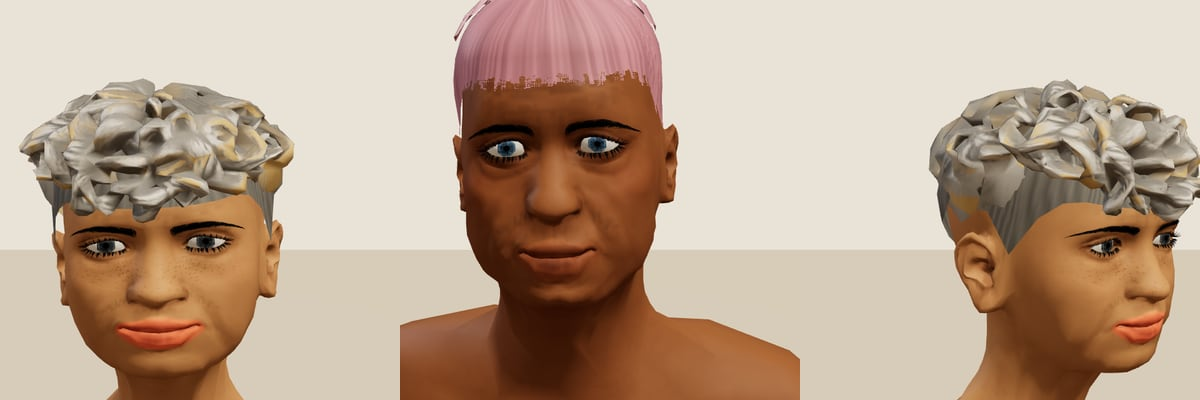
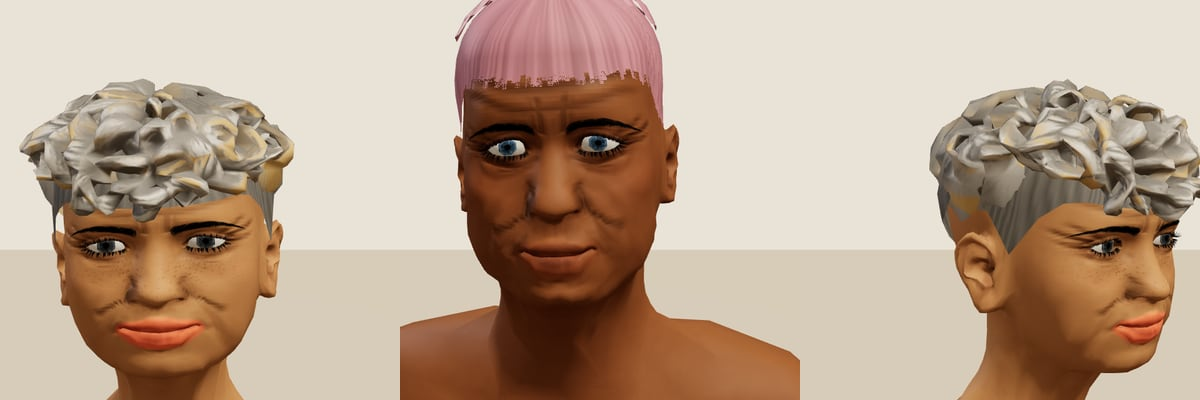
Make elder wrinkles readable: wider soft lines, age shading, bump
Claude-Session: https://claude.ai/code/session_01Sk68ke1565YUofyCmAJJtB

diff --git a/src/characters/materials.ts b/src/characters/materials.ts
@@ -443,6 +443,8 @@ export interface MpfbSkinUniforms extends SkinUniforms {
   uSkinMean: THREE.IUniform<THREE.Vector3>;
   /** Age-line intensity of an elder, baked into the head's own UV layout (null for the younger stages). */
   uWrinkleMap: THREE.IUniform<THREE.Texture | null>;
+  /** Elder wrinkle look: line albedo darkening, broad age-shading darkening, normal (bump) strength. */
+  uWrinkleFx: THREE.IUniform<THREE.Vector3>;
 }
 
 const PSKIN_FRAG_HEAD = /* glsl */ `
@@ -460,6 +462,14 @@ uniform vec4 uSkinFx; // freckles, blush, stubble, -
 uniform float uSelect;
 #ifdef HAS_WRINKLES
 uniform sampler2D uWrinkleMap;
+uniform vec3 uWrinkleFx; // line albedo, age-shading albedo, normal strength
+// Slope of the red (line) channel over one screen pixel, for the bump normal below.
+vec2 hsWrinkleGrad() {
+  vec2 dx = dFdx(vMsUv);
+  vec2 dy = dFdy(vMsUv);
+  float h = texture2D(uWrinkleMap, vMsUv).r;
+  return vec2(texture2D(uWrinkleMap, vMsUv + dx).r - h, texture2D(uWrinkleMap, vMsUv + dy).r - h);
+}
 #endif
 float hsHash(vec2 p) { return fract(sin(dot(p, vec2(127.1, 311.7))) * 43758.5453); }
 float hsLuma(vec3 c) { return dot(c, vec3(0.2126, 0.7152, 0.0722)); }
@@ -476,8 +486,10 @@ if (vCover > 0.5) discard;                            // under an opaque garment
   vec3 col = tone * (l * ${f(1 - 0.35)} + (tex / uSkinMean) * ${f(0.35)});
 #ifdef HAS_WRINKLES
   if (vInfo.x > 4.5 && vInfo.x < 5.5) {
-    // fine age lines baked from the head's own UV layout: a little darkening only, so every skin tone keeps its colour
-    col *= 1.0 - 0.3 * texture2D(uWrinkleMap, vMsUv).r;
+    // age lines and hollows baked from the head's own UV layout: a little darkening only, so every skin tone keeps its colour.
+    // Red is the line pattern (also used for the bump normal), green the broad under-eye and nasolabial shading.
+    vec2 wm = texture2D(uWrinkleMap, vMsUv).rg;
+    col *= 1.0 - uWrinkleFx.x * wm.r - uWrinkleFx.y * wm.g;
   }
 #endif
   // lips: the skin's _LIPS weight shifts the colour towards the lip colour's hue, keeping luminance (every tone works)
@@ -514,6 +526,27 @@ if (vCover > 0.5) discard;                            // under an opaque garment
 diffuseColor.rgb = mix(diffuseColor.rgb, diffuseColor.rgb * 1.08 + vec3(0.04, 0.03, 0.0), uSelect);
 `;
 
+/**
+ * Bend the head normal by the wrinkle map so the creases catch the light. The response is the standard screen-space bump
+ * gradient (Mikkelsen): the map is a groove (negative height), and only the head part takes part.
+ */
+const PSKIN_FRAG_NORMAL = /* glsl */ `
+#include <normal_fragment_begin>
+#ifdef HAS_WRINKLES
+// derivatives outside the branch: some drivers give undefined results in non-uniform control flow
+vec2 hsSlope = -hsWrinkleGrad() * uWrinkleFx.z; // the lines are grooves, so the height is the negative of the map
+vec3 hsSigmaX = normalize(dFdx(-vViewPosition));
+vec3 hsSigmaY = normalize(dFdy(-vViewPosition));
+if (vInfo.x > 4.5 && vInfo.x < 5.5) {
+  vec3 r1 = cross(hsSigmaY, normal);
+  vec3 r2 = cross(normal, hsSigmaX);
+  float det = dot(hsSigmaX, r1) * faceDirection;
+  vec3 grad = sign(det) * (hsSlope.x * r1 + hsSlope.y * r2);
+  normal = normalize(abs(det) * normal - grad);
+}
+#endif
+`;
+
 const MPSKIN_VERT_HEAD = `${MSKIN_VERT_HEAD}attribute float aLips;\nvarying float vLips;\n`;
 const MPSKIN_VERT_COVER = MSKIN_VERT_COVER.replace('vInfo = aInfo;', 'vInfo = aInfo;\nvLips = aLips;');
 
@@ -530,48 +563,84 @@ const sstep = (a: number, b: number, x: number) => {
   return t * t * (3 - 2 * t);
 };
 
-/** Strength (0..1) of a line from (ax, ay) to (bx, by) across `halfW`, softened over `soft`. */
-function lineMask(x: number, y: number, ax: number, ay: number, bx: number, by: number, halfW: number, soft = 0.0022): number {
+/** Soft Gaussian line from (ax, ay) to (bx, by): 1 on the line, fading over about `sigma` metres. */
+function lineMask(x: number, y: number, ax: number, ay: number, bx: number, by: number, sigma: number): number {
   const dx = bx - ax, dy = by - ay;
   const l2 = dx * dx + dy * dy;
   const t = l2 > 0 ? Math.min(1, Math.max(0, ((x - ax) * dx + (y - ay) * dy) / l2)) : 0;
   const d = Math.hypot(x - (ax + t * dx), y - (ay + t * dy));
-  return 1 - sstep(halfW - soft, halfW + soft, d);
+  return Math.exp(-(d * d) / (2 * sigma * sigma));
+}
+
+/** A soft Gaussian patch around (cx, cy) with radii (sx, sy); used for the broad age shading. */
+function softPatch(x: number, y: number, cx: number, cy: number, sx: number, sy: number): number {
+  const dx = (x - cx) / sx, dy = (y - cy) / sy;
+  return Math.exp(-0.5 * (dx * dx + dy * dy));
+}
+
+/** The head's front-facing weight, so nothing shows through the back of the skull. */
+function frontWeight(z: number): number {
+  return sstep(0.012, 0.045, z);
 }
 
 /**
  * Age-line pattern in the head's local face coordinates (x = lateral, y = up from the chin, z = forward; FACE_LAYOUT).
- * Forehead lines, glabella, crow's feet, under-eye lines and nasolabial folds. Mild on purpose: readable at close range,
- * almost invisible from across the room. Baked into the head UVs, so it follows every slider, face morph and skin tone.
+ * Wide, soft forehead lines, glabella, crow's feet fanning from the outer eye corners, lines under the eyes and deep
+ * nasolabial folds. The lines are a few millimetres wide on purpose: at close range they read clearly, and in the distance
+ * the mipmaps turn them into a soft age texture instead of shimmer. Baked into the head UVs, so it follows every slider,
+ * face morph and skin tone. Red channel of the wrinkle map.
  */
 export function wrinkleIntensity(p: readonly number[]): number {
   const x = p[0] as number, y = p[1] as number, z = p[2] as number;
-  const front = sstep(0.012, 0.045, z);
+  const front = frontWeight(z);
   if (front <= 0) return 0;
   const ax = Math.abs(x);
   let w = 0;
-  // forehead: three soft horizontal lines with a slight wave, fading toward the temples
-  const temple = 1 - sstep(0.042, 0.066, ax);
-  for (const [cy, amp] of [[0.135, 0.55], [0.152, 0.8], [0.169, 0.6]] as const) {
+  // forehead: three deep horizontal lines with a slight wave, fading toward the temples
+  const temple = 1 - sstep(0.050, 0.074, ax);
+  for (const [cy, amp, sigma] of [[0.135, 0.8, 0.0032], [0.152, 1.0, 0.0040], [0.169, 0.85, 0.0033]] as const) {
     const wave = 0.0022 * Math.sin(x * 55 + cy * 40) + 0.001 * Math.sin(x * 120 + 1.7);
-    w = Math.max(w, amp * temple * (1 - sstep(0.0016, 0.0042, Math.abs(y - (cy + wave)))));
+    w = Math.max(w, amp * temple * Math.exp(-((y - (cy + wave)) ** 2) / (2 * sigma * sigma)));
   }
-  // glabella: two short vertical lines between the brows
-  w = Math.max(w, 0.55 * lineMask(ax, y, 0.0075, 0.120, 0.0095, 0.139, 0.0016) * sstep(0.0, 0.003, ax));
-  // crow's feet: three lines fanning from the outer eye corner
-  w = Math.max(w, 0.6 * lineMask(ax, y, 0.0445, 0.1015, 0.057, 0.1075, 0.0014));
-  w = Math.max(w, 0.7 * lineMask(ax, y, 0.0455, 0.0985, 0.059, 0.0985, 0.0014));
-  w = Math.max(w, 0.6 * lineMask(ax, y, 0.0445, 0.0955, 0.057, 0.0905, 0.0014));
-  // under-eye: a shallow line under each eye
-  w = Math.max(w, 0.65 * lineMask(ax, y, 0.017, 0.0855, 0.032, 0.0795, 0.0015));
-  w = Math.max(w, 0.65 * lineMask(ax, y, 0.032, 0.0795, 0.047, 0.0845, 0.0015));
-  // nasolabial folds: from beside the nose down and out past the mouth corners
-  w = Math.max(w, 0.85 * lineMask(ax, y, 0.0205, 0.062, 0.0295, 0.0465, 0.0017));
-  w = Math.max(w, 0.75 * lineMask(ax, y, 0.0295, 0.0465, 0.0365, 0.0325, 0.0017));
-  return Math.min(1, w) * front;
+  // glabella: short vertical lines between the brows
+  w = Math.max(w, 0.8 * lineMask(ax, y, 0.0075, 0.116, 0.0095, 0.142, 0.0021) * sstep(0.0, 0.003, ax));
+  w = Math.max(w, 0.45 * lineMask(ax, y, 0.0125, 0.118, 0.0145, 0.139, 0.0019) * sstep(0.0, 0.003, ax));
+  // crow's feet: four lines fanning from the outer eye corner
+  for (const [ex, ey, amp, sigma] of [[0.0615, 0.1125, 0.75, 0.0020], [0.0665, 0.1015, 0.9, 0.0022], [0.0645, 0.0925, 0.8, 0.0021], [0.0575, 0.0850, 0.6, 0.0019]] as const) {
+    w = Math.max(w, amp * lineMask(ax, y, 0.0455, 0.0985, ex, ey, sigma));
+  }
+  // under-eye: two soft lines under the lower lid
+  w = Math.max(w, 0.5 * lineMask(ax, y, 0.0160, 0.0875, 0.0330, 0.0810, 0.0024));
+  w = Math.max(w, 0.48 * lineMask(ax, y, 0.0330, 0.0810, 0.0490, 0.0860, 0.0024));
+  w = Math.max(w, 0.3 * lineMask(ax, y, 0.0210, 0.0810, 0.0410, 0.0750, 0.0020));
+  // nasolabial folds: deep, from beside the nose down and out past the mouth corners
+  w = Math.max(w, 1.0 * lineMask(ax, y, 0.0195, 0.0640, 0.0295, 0.0465, 0.0032));
+  w = Math.max(w, 0.9 * lineMask(ax, y, 0.0295, 0.0465, 0.0385, 0.0295, 0.0032));
+  // a fainter parallel line outside the fold, and the marionette line below the mouth corner
+  w = Math.max(w, 0.35 * lineMask(ax, y, 0.0255, 0.0620, 0.0360, 0.0460, 0.0026));
+  w = Math.max(w, 0.4 * lineMask(ax, y, 0.0205, 0.0290, 0.0250, 0.0120, 0.0022));
+  return w < 0.004 ? 0 : Math.min(1, w) * front;
 }
 
-/** Rasterises `wrinkleIntensity` into the head's UV layout (red channel). Shared by every elder, built once. */
+/**
+ * Broad, faint age shading in the same face coordinates: the hollow under each eye, the sunken nasolabial region, the
+ * temples and the cheek hollows. This is the low-frequency part of the look, so it survives mipmapping and keeps the face
+ * reading as old in the wide lineup. Green channel of the wrinkle map.
+ */
+export function ageShading(p: readonly number[]): number {
+  const x = p[0] as number, y = p[1] as number, z = p[2] as number;
+  const front = frontWeight(z);
+  if (front <= 0) return 0;
+  const ax = Math.abs(x);
+  let s = 0;
+  s = Math.max(s, 0.55 * softPatch(ax, y, 0.032, 0.0835, 0.021, 0.0095)); // under-eye hollow
+  s = Math.max(s, 0.5 * softPatch(ax, y, 0.029, 0.048, 0.014, 0.016)); // nasolabial hollow
+  s = Math.max(s, 0.18 * softPatch(ax, y, 0.062, 0.118, 0.014, 0.020)); // temple
+  s = Math.max(s, 0.16 * softPatch(ax, y, 0.052, 0.058, 0.016, 0.014)); // cheek hollow
+  return s < 0.004 ? 0 : Math.min(1, s) * front;
+}
+
+/** Rasterises `wrinkleIntensity` (red) and `ageShading` (green) into the head's UV layout. Shared by every elder, built once. */
 export function bakeWrinkleTexture(geometry: THREE.BufferGeometry): THREE.DataTexture | null {
   const pos = geometry.getAttribute('position');
   const uv = geometry.getAttribute('uv');
@@ -580,7 +649,7 @@ export function bakeWrinkleTexture(geometry: THREE.BufferGeometry): THREE.DataTe
   const index = geometry.getIndex();
   if (!pos || !uv || !face || !info || !index) return null;
   const S = WRINKLE_SIZE;
-  const data = new Uint8Array(S * S);
+  const data = new Uint8Array(S * S * 2);
   for (let t = 0; t < index.count; t += 3) {
     const a = index.getX(t), b = index.getX(t + 1), c = index.getX(t + 2);
     if (Math.abs(info.getX(a) - 5) > 0.5 || Math.abs(info.getX(b) - 5) > 0.5 || Math.abs(info.getX(c) - 5) > 0.5) continue;
@@ -599,19 +668,23 @@ export function bakeWrinkleTexture(geometry: THREE.BufferGeometry): THREE.DataTe
       const w2 = 1 - w0 - w1;
       if (w0 < -0.03 || w1 < -0.03 || w2 < -0.03) continue;
       const p = [0, 1, 2].map((k) => w0 * face.getComponent(a, k) + w1 * face.getComponent(b, k) + w2 * face.getComponent(c, k));
+      const o = (py * S + px) * 2;
       const v = Math.round(wrinkleIntensity(p) * 255);
-      const o = py * S + px;
       if (v > (data[o] as number)) data[o] = v;
+      const s = Math.round(ageShading(p) * 255);
+      if (s > (data[o + 1] as number)) data[o + 1] = s;
     }
   }
-  // close one-texel gaps at island edges so the filtered texture does not dim the lines
+  // close one-texel gaps at island edges so the filtered texture does not dim the lines and hollows
   const grown = data.slice();
   for (let y = 1; y < S - 1; y++) for (let x = 1; x < S - 1; x++) {
-    const o = y * S + x;
-    if (data[o]) continue;
-    grown[o] = Math.max(data[o - 1] as number, data[o + 1] as number, data[o - S] as number, data[o + S] as number);
+    const o = (y * S + x) * 2;
+    if (data[o] || data[o + 1]) continue;
+    for (let c = 0; c < 2; c++) {
+      grown[o + c] = Math.max(data[o - 2 + c] as number, data[o + 2 + c] as number, data[o - S * 2 + c] as number, data[o + S * 2 + c] as number);
+    }
   }
-  const tex = new THREE.DataTexture(grown, S, S, THREE.RedFormat, THREE.UnsignedByteType);
+  const tex = new THREE.DataTexture(grown, S, S, THREE.RGFormat, THREE.UnsignedByteType);
   tex.flipY = false;
   tex.magFilter = THREE.LinearFilter;
   tex.minFilter = THREE.LinearMipmapLinearFilter;
@@ -645,10 +718,12 @@ export function createMpfbSkinMaterial(wrinkleMap: THREE.Texture | null = null):
     uAlbedo: { value: null },
     uSkinMean: { value: new THREE.Vector3(0.3986, 0.2295, 0.1613) },
     uWrinkleMap: { value: wrinkleMap },
+    uWrinkleFx: { value: new THREE.Vector3(0.42, 0.24, 2.0) },
   };
-  patch(material, `hs-mpfb-skin-v3${wrinkleMap ? '-w' : ''}`, uniforms as unknown as Uniforms,
+  patch(material, `hs-mpfb-skin-v4${wrinkleMap ? '-w' : ''}`, uniforms as unknown as Uniforms,
     [['#include <common>', `#include <common>\n${MPSKIN_VERT_HEAD}`], ['#include <morphtarget_vertex>', MPSKIN_VERT_COVER]],
-    [['#include <common>', `#include <common>\n${PSKIN_FRAG_HEAD}`], ['#include <color_fragment>', PSKIN_FRAG_PAINT]],
+    [['#include <common>', `#include <common>\n${PSKIN_FRAG_HEAD}`], ['#include <color_fragment>', PSKIN_FRAG_PAINT],
+      ['#include <normal_fragment_begin>', PSKIN_FRAG_NORMAL]],
     wrinkleMap ? { HAS_WRINKLES: '' } : {});
   return { material, uniforms };
 }

diff --git a/tests/unit/characters3d/stageBodies.test.ts b/tests/unit/characters3d/stageBodies.test.ts
@@ -319,13 +319,18 @@ describe.skipIf(!have)('garment fit by stage', () => {
 });
 
 describe.skipIf(!have)('elder wrinkles', () => {
-  it('darkens the forehead and not the back of the head', async () => {
-    const { wrinkleIntensity } = await import('../../../src/characters/materials');
+  it('darkens the forehead, crow\'s feet and under-eye lines and not the back of the head', async () => {
+    const { ageShading, wrinkleIntensity } = await import('../../../src/characters/materials');
     expect(wrinkleIntensity([0, 0.152, 0.07])).toBeGreaterThan(0.3);
     expect(wrinkleIntensity([0, 0.169, 0.07])).toBeGreaterThan(0.2);
     expect(wrinkleIntensity([0.05, 0.0985, 0.06])).toBeGreaterThan(0.3); // crow's feet
+    expect(wrinkleIntensity([0.03, 0.0837, 0.07])).toBeGreaterThan(0.2); // under-eye line
     expect(wrinkleIntensity([0, 0.152, -0.07])).toBe(0);
     expect(wrinkleIntensity([0, 0.0, 0.07])).toBe(0); // chin
+    // broad age shading: the under-eye hollow and the nasolabial region, never the back of the head
+    expect(ageShading([0.032, 0.0835, 0.07])).toBeGreaterThan(0.2);
+    expect(ageShading([0.029, 0.048, 0.07])).toBeGreaterThan(0.1);
+    expect(ageShading([0, 0.152, -0.07])).toBe(0);
   });
 
   it('gives only the elder a shared wrinkle map', async () => {
@@ -339,7 +344,11 @@ describe.skipIf(!have)('elder wrinkles', () => {
     expect(map).not.toBeNull();
     expect(map!.image.width).toBe(512);
     const data = map!.image.data as Uint8Array;
+    expect(data.length).toBe(512 * 512 * 2); // red: lines, green: broad age shading
     expect(data.some((v) => v > 40)).toBe(true);
+    let shadedTexels = 0;
+    for (let i = 1; i < data.length; i += 2) if ((data[i] as number) > 40) shadedTexels++;
+    expect(shadedTexels).toBeGreaterThan(500);
     expect(wrinkleMapForStage('elder', elderGeo)).toBe(map); // one texture, built once
     expect(wrinkleMapForStage('adult', adultGeo)).toBeNull();
     expect(wrinkleMapForStage('teen', elderGeo)).toBeNull();

diff --git a/tests/unit/characters3d/elderWrinkles.test.ts b/tests/unit/characters3d/elderWrinkles.test.ts
@@ -1,0 +1,27 @@
+// Elder wrinkle pattern (task B2): the lines must be wide enough to read at head-and-shoulders range, and the broad age
+// shading must sit only on the hollows of the face. The baked texture itself is covered in stageBodies.test.ts.
+import { describe, expect, it } from 'vitest';
+import { ageShading, wrinkleIntensity } from '../../../src/characters/materials';
+
+describe('elder wrinkle pattern', () => {
+  it('makes the forehead lines a few millimetres wide with a soft falloff', () => {
+    const peak = wrinkleIntensity([0, 0.152, 0.07]);
+    expect(peak).toBeGreaterThan(0.8);
+    // 4 mm above the middle line it is still well over half strength: the line is about 9 mm wide, not 1.5 mm
+    expect(wrinkleIntensity([0, 0.156, 0.07])).toBeGreaterThan(0.5);
+    // and it fades out smoothly, leaving a gap before the next line
+    expect(wrinkleIntensity([0, 0.1605, 0.07])).toBeLessThan(0.3);
+  });
+
+  it('fans crow\'s feet from the outer eye corner and lines under the eye', () => {
+    expect(wrinkleIntensity([0.048, 0.101, 0.06])).toBeGreaterThan(0.3); // upper fan line
+    expect(wrinkleIntensity([0.052, 0.089, 0.06])).toBeGreaterThan(0.2); // lower fan line
+    expect(wrinkleIntensity([0.033, 0.0812, 0.06])).toBeGreaterThan(0.2); // under-eye line
+  });
+
+  it('keeps the lines and the broad shading off the back of the head', () => {
+    expect(wrinkleIntensity([0, 0.152, -0.07])).toBe(0);
+    expect(ageShading([0.032, 0.0835, -0.07])).toBe(0);
+    expect(ageShading([0, 0.152, -0.07])).toBe(0);
+  });
+});

diff --git a/dev/ds-tasks/gaps/B2-progress.md b/dev/ds-tasks/gaps/B2-progress.md
@@ -1,0 +1,48 @@
+# Task B2 — elder wrinkles readable
+
+## Changed files
+- `src/characters/materials.ts`
+  - New `wrinkleIntensity` pattern: Gaussian lines ~6-9 mm wide (was ~1.5 mm), three deeper forehead lines,
+    two glabella lines, four crow's feet fanning from each outer eye corner, two short under-eye arcs and deep
+    two-segment nasolabial folds plus a fainter outer fold and marionette line. Tails are clamped below 0.004 so
+    off-face points stay exactly 0.
+  - New exported `ageShading`: broad, faint Gaussian hollows under the eyes, around the nasolabial folds, at the
+    temples and on the cheek hollows.
+  - `bakeWrinkleTexture` now writes a 512x512 **RG** texture: red = lines, green = broad age shading (same one
+    shared build; 0.5 MB). Edge-gap fill works per channel.
+  - `PSKIN_FRAG_PAINT` darkens with `1 - lineAlb * r - shadeAlb * g`; `PSKIN_FRAG_NORMAL` bends the head normal
+    from the screen-space gradient of the red channel (Mikkelsen bump, derivatives taken outside the head branch).
+    Both are inside the existing `HAS_WRINKLES` define, so only elders change.
+  - New `uWrinkleFx` uniform (line albedo 0.55, shading albedo 0.24, bump strength 3.0). Shader key bumped to v4.
+- `tests/unit/characters3d/stageBodies.test.ts`: the wrinkle test now also checks an under-eye line and the
+  under-eye/nasolabial shading; the map test checks the two-channel layout and that the green channel has content.
+- `tests/unit/characters3d/elderWrinkles.test.ts` (new): focused checks that forehead lines are wide and soft,
+  that the crow's-feet fan and under-eye lines exist, and that lines/shading are zero on the back of the head.
+
+## How it works
+The pattern is still baked once from the first elder body into its own UV layout and shared by every MPFB elder, so
+it follows every face morph and tone. Albedo darkening is colour-neutral (multiply), so light and dark tones keep
+their hue; the bump normal adds light-catching creases that are independent of skin tone. The broad green channel
+survives mipmapping, so the face keeps an aged read at lineup distance while the fine lines appear at close range.
+
+## Visual checks
+- `npm run visual:stages -- --plan=closeups` + `npm run visual:stages:compose`.
+  `dev/mpfb/shots/elder_wrinkles.jpg` (and the 700 px raws) show clear forehead lines, crow's feet, under-eye
+  creases and nasolabial folds on light (`#c68f60`) and dark (`#95603b`) skin; soft, not dirt/paint/scars.
+- `npm run visual:stages -- --plan=lineup` + compose. `dev/mpfb/shots/stages_lineup.jpg`: adults unchanged;
+  the elder's face keeps soft age shading (heads are only ~24 px at this framing, so lines are not expected).
+- Iterated three times: initial 1.5 mm lines (invisible) -> wider lines + normals (visible) -> softened under-eye
+  lines and tuned albedo/bump.
+
+## Checks (final state)
+- `npm run typecheck`: clean
+- `npm test`: 120 files, 1676 tests, all pass
+- `npm run content:check`: 0 errors, 0 warnings
+- `npm run build`: passes (only the existing chunk-size / dynamic-import warnings)
+
+## Left open / notes
+- The wrinkle map is shared by all elders (male and female use the same pattern), unchanged from task B.
+- `docs/CONTINUATION.md` still lists "Elders have no wrinkles" under known issues; the supervisor may want to
+  update that line.
+- `dev/ds-tasks/gaps/B2-probe.mjs` is a temporary texture/UV dump used while tuning. `B2-img.py` is an unused
+  diagnostic (python script execution needed approval, so it never ran); both can be deleted.

diff --git a/docs/CONTINUATION.md b/docs/CONTINUATION.md
@@ -73,7 +73,7 @@ phone landscape HUD fix. All runs are SwiftShader emulation. Notes from the veri
   - Town children are only generated for new worlds; older saves keep their childless town households.
   - The sitter only serves the household you play.
   - The move-out dialog scrolls in phone landscape.
-  - Babies have no curled pose. Elder wrinkles are a procedural map (albedo and shading only, no geometry).
+  - Babies have no curled pose. Elder wrinkles are one procedural map shared by all elders (albedo and bump only, no geometry).
   - Feet slide a little when walking.
   - The sim does not mark carrying explicitly (`peopleView` uses a heuristic).
 - M9 floors and exteriors:
